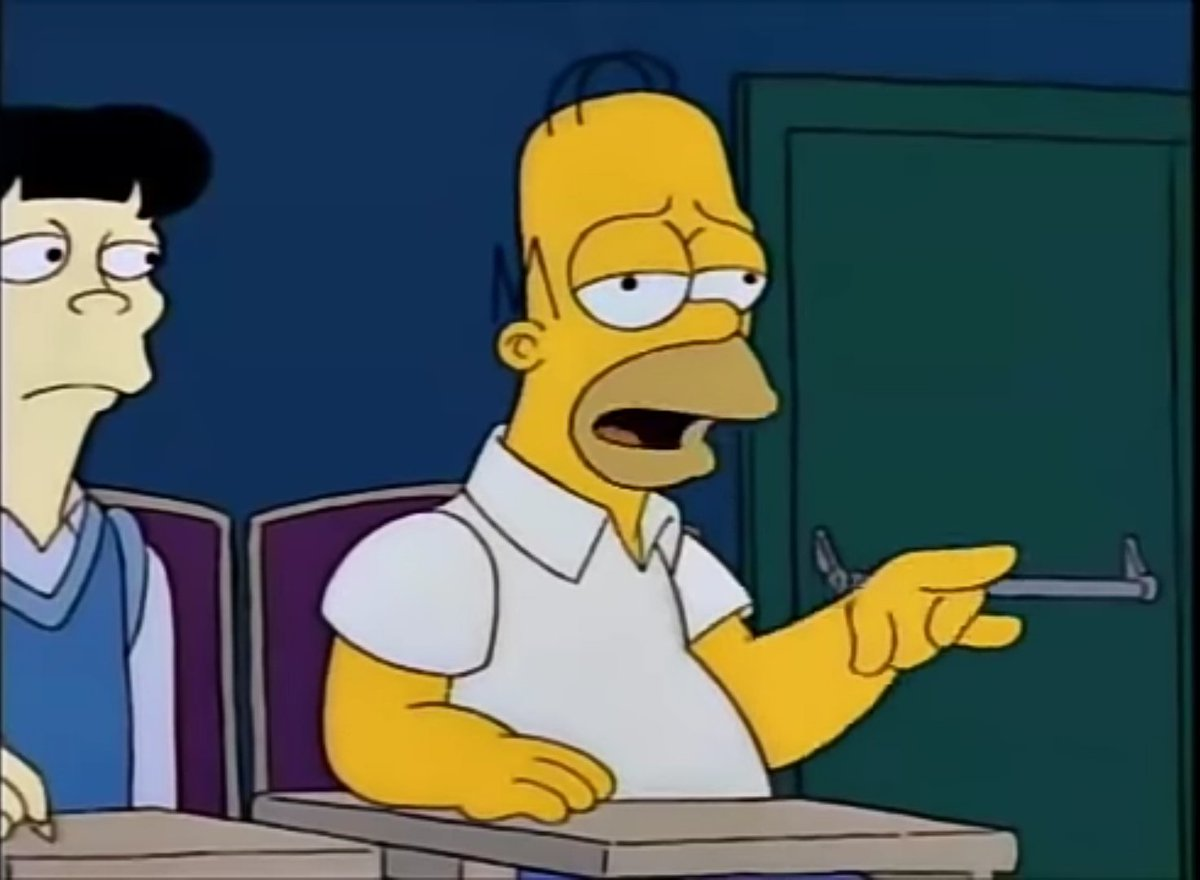
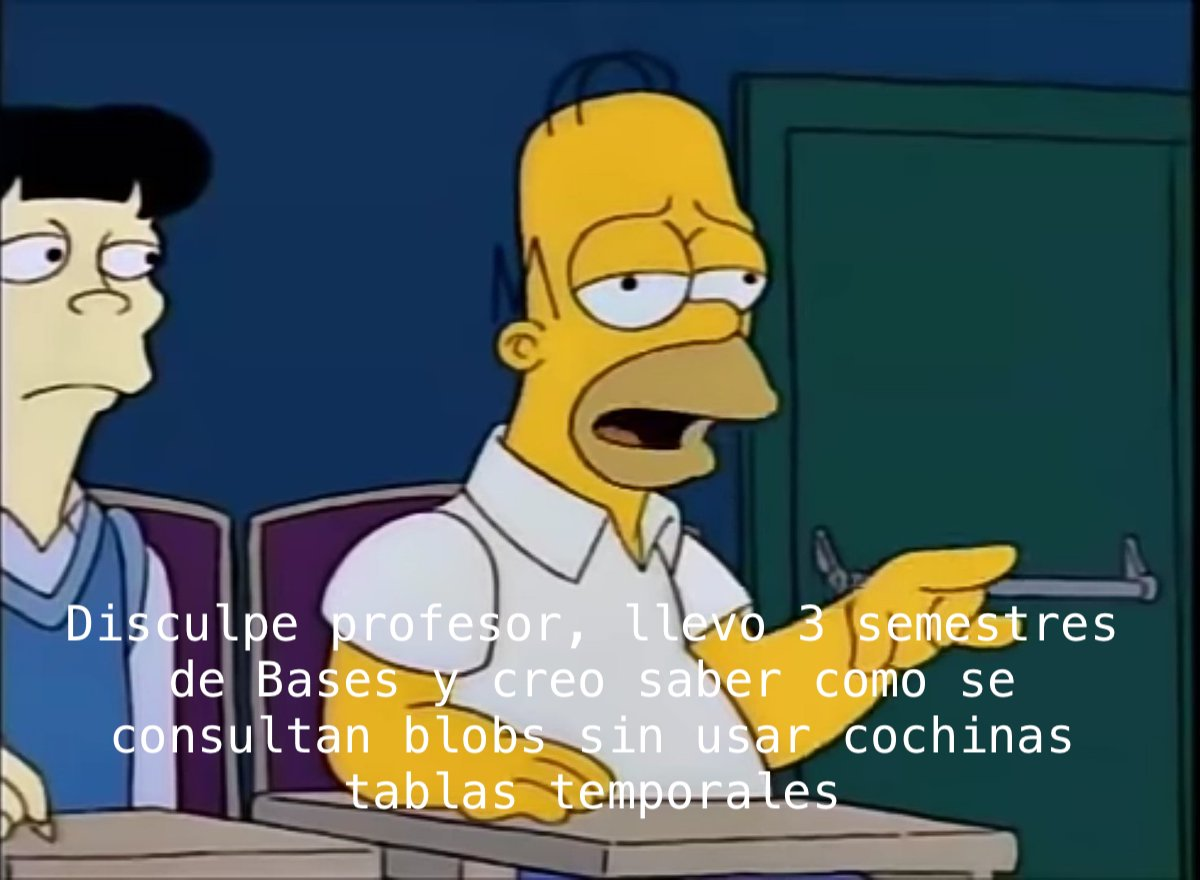
feat: ENTREGA PRE FINAL

Changed region(s): [[0.0308, 0.675, 0.925, 0.9205]]

diff --git a/Application/blobs.py b/Application/blobs.py
@@ -2,12 +2,12 @@ import cx_Oracle as oracle
 import config
 
 connection = oracle.connect(
-  config.username, config.password, dsn="jccbdd_s1", encoding="UTF-8"
+  config.username, config.password, dsn="sgsbdd_s1", encoding="UTF-8"
 )
 cur = connection.cursor()
 
 inst_blob = """
-  insert into archivo_programa_f2(num_archivo, programa_id, archivo, tamanio) 
+  insert into archivo_programa(num_archivo, programa_id, archivo, tamanio) 
   values(:1, :2, :3, :4)
 """
 qry_blob = """
@@ -32,7 +32,7 @@ def showTest():
     print(row)
 
 showTest()
-#uploadImage(1, "img/prueba.jpg")
+uploadImage(1, "img/disculpeProfesorCreoSaberComoCrearUnaBBD.jpg")
 #downloadImage(1, "img/YSinSusTontasFunciones.jpg")
 
 cur.close()
